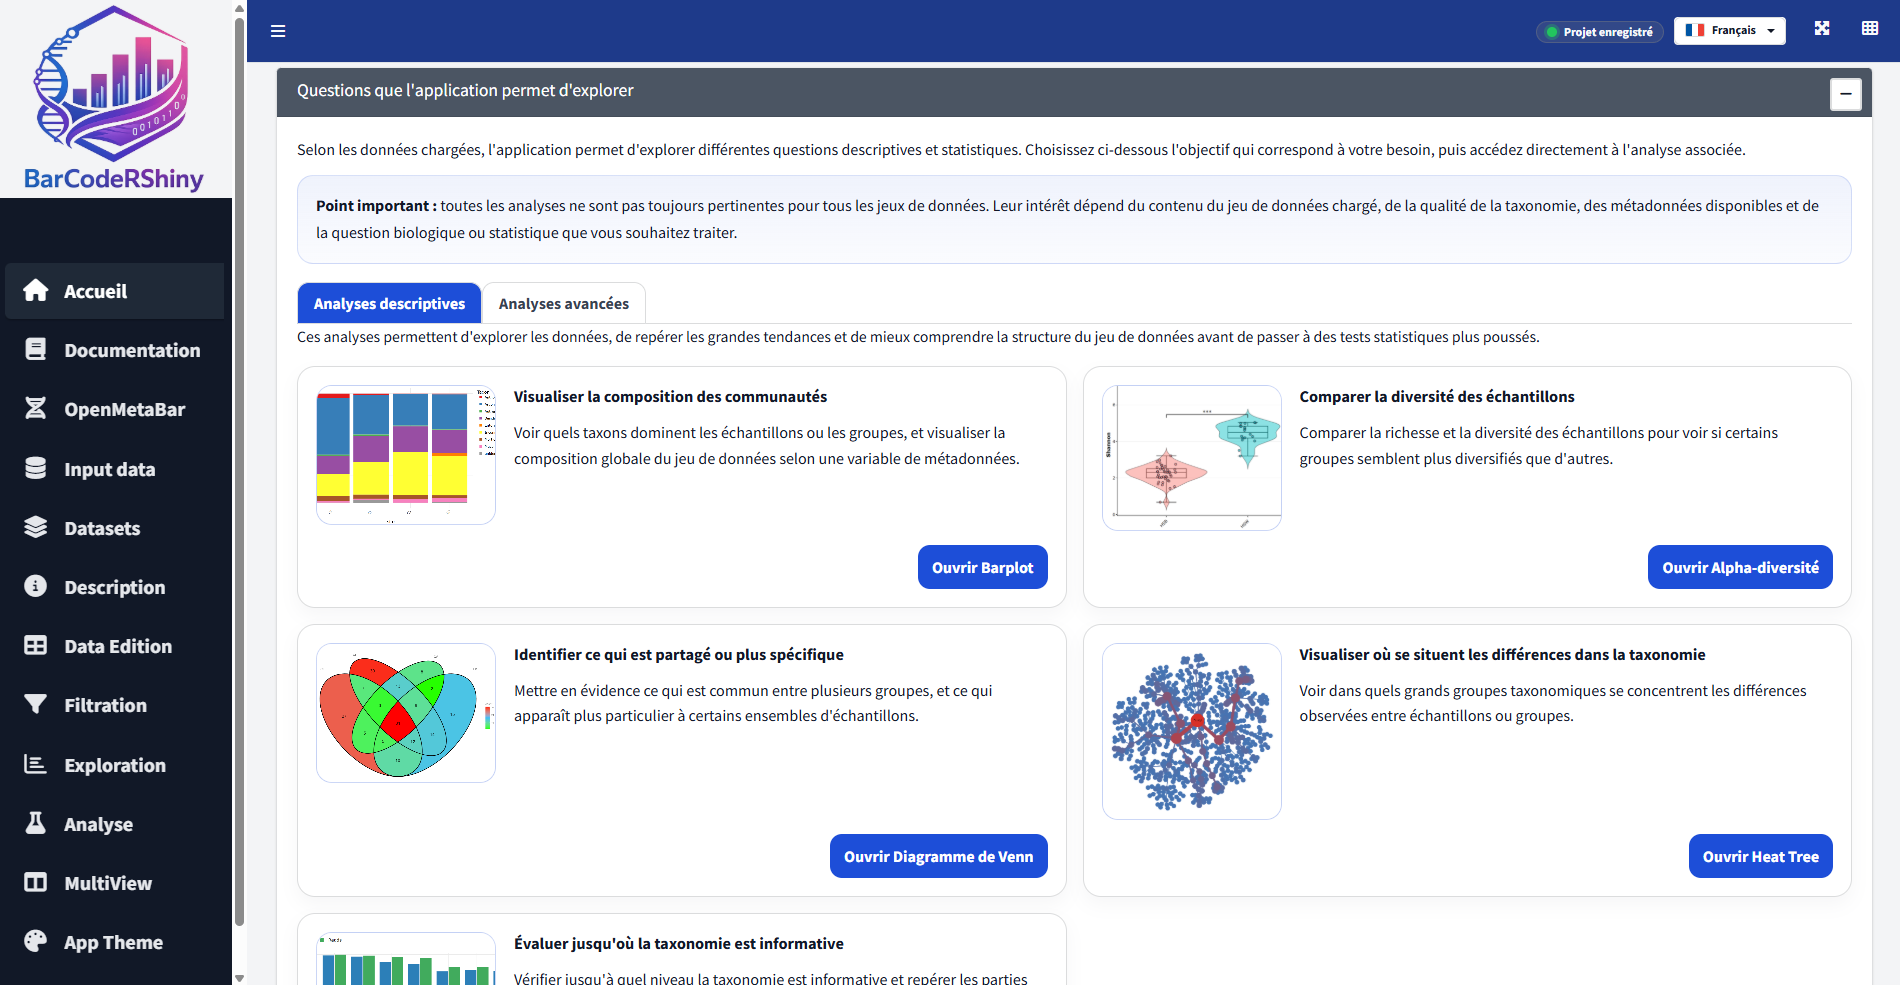
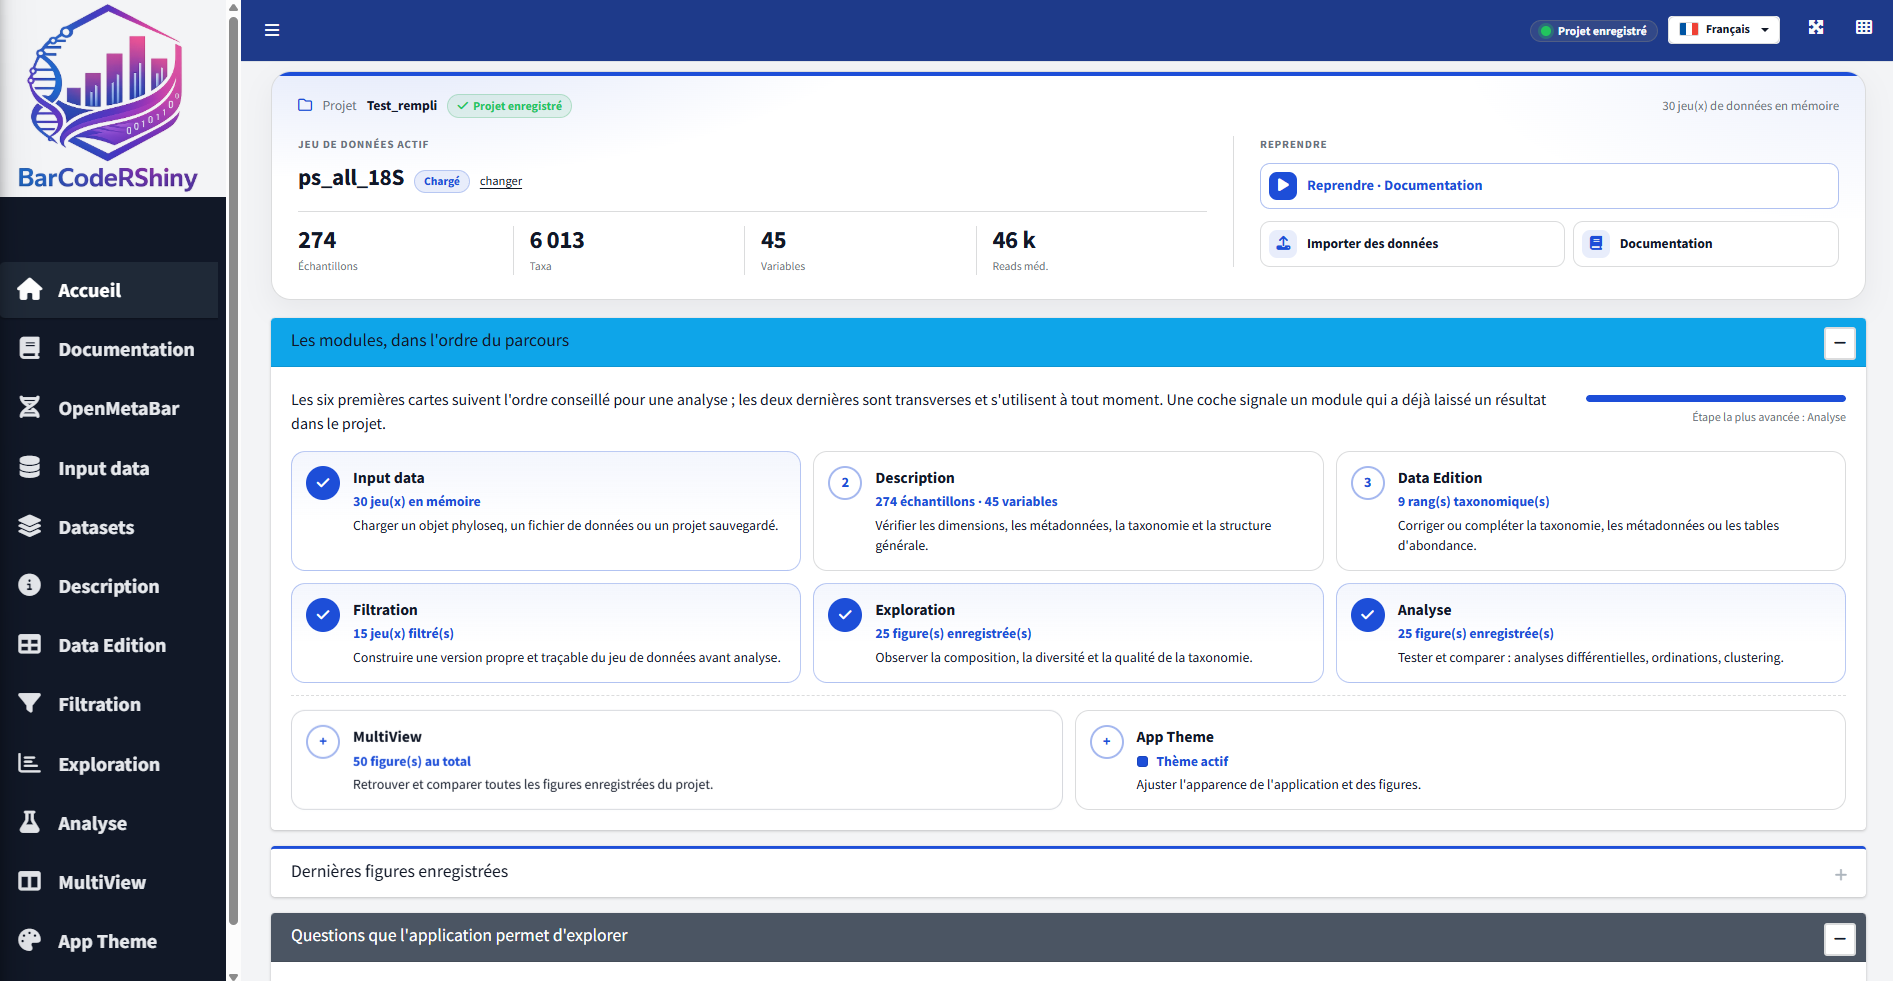
Add module interface screenshots

diff --git a/src/content.ts b/src/content.ts
@@ -28,6 +28,12 @@ export type AppModule = {
   submodules?: SubModule[];
 };
 
+export type ModuleScreen = {
+  image: string;
+  title: Localized;
+  description: Localized;
+};
+
 export const modules: AppModule[] = [
   {
     key: "accueil", order: "01", group: "orient", icon: "⌂",
@@ -215,6 +221,105 @@ export const modules: AppModule[] = [
     source: "modules/settings/mod_settings_ui.R"
   }
 ];
+
+export const moduleScreens: Record<string, ModuleScreen> = {
+  accueil: {
+    image: "barcoder-home-real.png",
+    title: l("Reprendre le projet en un regard", "Resume the project at a glance"),
+    description: l(
+      "Le tableau de bord rassemble l’état de sauvegarde, le dataset actif et ses indicateurs clés, puis matérialise la progression dans le parcours analytique pour orienter immédiatement la prochaine action.",
+      "The dashboard combines save status, the active dataset and its key indicators, then shows progress through the analytical workflow to make the next action immediately clear."
+    )
+  },
+  documentation: {
+    image: "screen-documentation.png",
+    title: l("Une documentation située dans l’interface", "Documentation embedded in the interface"),
+    description: l(
+      "L’écran organise l’aide par onglet et sous-module, ici le Barplot d’Exploration, avec deux niveaux complémentaires : un guide méthodologique pour comprendre la logique et une référence pour retrouver chaque règle.",
+      "The screen organizes help by tab and submodule, here the Exploration Barplot, with two complementary levels: a methodological guide for understanding the logic and a reference for looking up every rule."
+    )
+  },
+  openmetabar: {
+    image: "screen-openmetabar.png",
+    title: l("Préparer un run avant sa soumission", "Prepare a run before submission"),
+    description: l(
+      "Cette première étape verrouille le contexte technique — technologie, marqueur, base de référence et connexion au cluster — avant d’autoriser le choix des FASTQ et la configuration détaillée du pipeline.",
+      "This first step locks down the technical context—technology, marker, reference database and cluster connection—before enabling FASTQ selection and detailed pipeline configuration."
+    )
+  },
+  "input-data": {
+    image: "screen-input-data.png",
+    title: l("Importer un objet existant", "Import an existing object"),
+    description: l(
+      "L’onglet reçoit un objet phyloseq ou un projet sauvegardé aux formats R, détecte automatiquement son type et annonce les normalisations appliquées aux identifiants et aux métadonnées.",
+      "The tab accepts a phyloseq object or saved project in R formats, automatically detects its type and reports the normalizations applied to identifiers and metadata."
+    )
+  },
+  datasets: {
+    image: "screen-datasets.png",
+    title: l("Piloter le dataset actif et les projets", "Manage the active dataset and projects"),
+    description: l(
+      "La partie haute définit le dataset de travail global ; le registre inférieur sert à sauvegarder, recharger, dupliquer, importer ou exporter des projets et leurs jeux de données.",
+      "The upper area defines the application-wide working dataset; the registry below is used to save, reload, duplicate, import or export projects and their datasets."
+    )
+  },
+  description: {
+    image: "screen-description.png",
+    title: l("Diagnostiquer la structure du dataset", "Diagnose dataset structure"),
+    description: l(
+      "Cette vue synthétise immédiatement richesse, nombre d’échantillons, profondeur médiane et sparsité, tout en indiquant les composantes disponibles et les points d’attention avant exploration ou test.",
+      "This view immediately summarizes richness, sample count, median depth and sparsity, while indicating available components and points to review before exploration or testing."
+    )
+  },
+  "data-edition": {
+    image: "screen-data-edition.png",
+    title: l("Organiser les corrections par composante", "Organize corrections by component"),
+    description: l(
+      "Après le choix du dataset, des panneaux séparés donnent accès aux métadonnées, à l’OTU table, à la taxonomie, aux imports et exports, aux journaux et à l’enregistrement du nouvel état.",
+      "After choosing the dataset, separate panels provide access to metadata, the OTU table, taxonomy, imports and exports, logs and saving the new state."
+    )
+  },
+  exploration: {
+    image: "screen-exploration.png",
+    title: l("Construire un Barplot de façon explicite", "Build a Barplot explicitly"),
+    description: l(
+      "Le sous-module sépare le contexte du dataset des paramètres qui déclenchent un recalcul : sélection taxonomique, définition des inconnus et regroupement restent visibles avant la génération de la figure.",
+      "The submodule separates dataset context from parameters that trigger recalculation: taxonomic selection, unknown-value definition and grouping remain visible before the figure is generated."
+    )
+  },
+  analyse: {
+    image: "screen-analyse.png",
+    title: l("Paramétrer une analyse différentielle", "Configure a differential analysis"),
+    description: l(
+      "L’écran réunit le choix des datasets, des moteurs statistiques, du modèle, des corrections multiples, des effets aléatoires et de la graine afin de rendre l’exécution relisible et reproductible.",
+      "The screen brings together dataset selection, statistical engines, model settings, multiple-testing corrections, random effects and the seed so execution remains reviewable and reproducible."
+    )
+  },
+  multiview: {
+    image: "screen-multiview.png",
+    title: l("Retrouver et comparer les figures enregistrées", "Retrieve and compare saved figures"),
+    description: l(
+      "La bibliothèque combine indicateurs, recherche, période, tri, favoris et filtres par type avec une galerie de résultats, afin de sélectionner plusieurs figures sans perdre leur dataset ni leur contexte analytique.",
+      "The library combines indicators, search, date range, sorting, favorites and type filters with a results gallery, allowing several figures to be selected without losing their dataset or analytical context."
+    )
+  },
+  "app-theme": {
+    image: "screen-app-theme.png",
+    title: l("Choisir un thème en contrôlant sa lisibilité", "Choose a theme while checking readability"),
+    description: l(
+      "Les presets sont classés par familles chromatiques et accompagnés d’un aperçu des composants ; le panneau de lisibilité vérifie en parallèle les contrastes WCAG des principaux couples texte-fond.",
+      "Presets are grouped into color families and paired with a component preview; the readability panel simultaneously checks WCAG contrast for the main text-background pairs."
+    )
+  },
+  parametres: {
+    image: "screen-parametres.png",
+    title: l("Rendre le comportement de session prévisible", "Make session behavior predictable"),
+    description: l(
+      "Les préférences globales contrôlent ici la sauvegarde automatique, la reprise du dernier onglet et les choix appliqués au démarrage, notamment la langue et le thème de l’interface.",
+      "Global preferences control automatic saving, restoration of the last tab and the choices applied at startup, including interface language and theme."
+    )
+  }
+};
 
 export const groups = {
   orient: l("S’orienter", "Orient"),

diff --git a/src/App.tsx b/src/App.tsx
@@ -1,5 +1,5 @@
 import { useEffect, useMemo, useState } from "react";
-import { groups, modules, type AppModule, type Language, type Localized } from "./content";
+import { groups, moduleScreens, modules, type AppModule, type Language, type Localized } from "./content";
 
 const asset = (path: string) => `${import.meta.env.BASE_URL}${path}`;
 const tx = (value: Localized, language: Language) => value[language];
@@ -183,6 +183,11 @@ function ApplicationIndex({ language }: { language: Language }) {
 }
 
 function ModuleVisual({ module, language }: { module: AppModule; language: Language }) {
+  const screen = moduleScreens[module.key];
+  if (screen) {
+    const imagePath = asset(`app-previews/${screen.image}`);
+    return <figure className="module-visual screen-preview"><a href={imagePath} target="_blank" rel="noreferrer"><img src={imagePath} alt={`${tx(screen.title, language)} — ${tx(screen.description, language)}`} decoding="async" /><span>{language === "fr" ? "Voir en pleine résolution" : "View full resolution"}<i>↗</i></span></a><figcaption><small>{language === "fr" ? "CAPTURE DE L’APPLICATION" : "APPLICATION SCREEN"}</small><b>{tx(screen.title, language)}</b><p>{tx(screen.description, language)}</p></figcaption></figure>;
+  }
   if (module.image) return <div className="module-visual image"><img src={asset(`app-previews/${module.image}`)} alt={`${tx(module.title, language)} — ${tx(module.kicker, language)}`} /><div><span>{language === "fr" ? "APERÇU ISSU DU DÉPÔT" : "PREVIEW FROM THE REPOSITORY"}</span><b>{tx(module.title, language)}</b></div></div>;
   return <div className={`module-visual schematic theme-${module.group}`} role="img" aria-label={language === "fr" ? `Schéma fonctionnel de l’onglet ${tx(module.title, language)}` : `Functional diagram of the ${tx(module.title, language)} tab`}><div className="schematic-bar"><span /><span /><span /><b>BarCodeR / {tx(module.title, language)}</b></div><div className="schematic-body"><aside><strong>{module.icon}</strong>{modules.slice(0, 8).map((m) => <i className={m.key === module.key ? "active" : ""} key={m.key} />)}</aside><div className="schematic-content"><small>{tx(module.kicker, language)}</small><h3>{tx(module.title, language)}</h3><div className="schematic-cards"><span /><span /><span /></div><div className="schematic-lines"><i /><i /><i /><i /></div></div></div></div>;
 }

diff --git a/src/styles.css b/src/styles.css
@@ -225,6 +225,17 @@ h1 em { color: var(--violet); font-style: normal; }
 .question-callout b { display: block; font-family: var(--font-display); font-size: 15px; line-height: 1.45; margin-top: 3px; }
 
 .module-visual { border: 1px solid var(--line); border-radius: 15px; box-shadow: var(--shadow); min-height: 390px; overflow: hidden; }
+.screen-preview { background: var(--surface); display: flex; flex-direction: column; min-height: 0; }
+.screen-preview > a { background: #e9edf4; display: block; overflow: hidden; position: relative; }
+.screen-preview > a::after { background: linear-gradient(180deg, transparent 65%, rgba(17,24,45,.2)); content: ""; inset: 0; pointer-events: none; position: absolute; }
+.screen-preview img { aspect-ratio: 1.93 / 1; object-fit: contain; object-position: top; transition: transform .35s ease; width: 100%; }
+.screen-preview > a:hover img { transform: scale(1.012); }
+.screen-preview > a > span { align-items: center; background: rgba(17,24,45,.9); border: 1px solid rgba(255,255,255,.2); border-radius: 999px; bottom: 13px; color: white; display: flex; font-family: var(--font-display); font-size: 11px; font-weight: 700; gap: 9px; padding: 7px 11px; position: absolute; right: 13px; z-index: 1; }
+.screen-preview > a > span i { color: #b8aff4; font-style: normal; }
+.screen-preview figcaption { border-top: 1px solid var(--line); padding: 18px 20px 20px; }
+.screen-preview figcaption small { color: var(--violet-dark); display: block; font-family: var(--font-mono); font-size: 10px; font-weight: 600; letter-spacing: .07em; }
+.screen-preview figcaption b { display: block; font-family: var(--font-display); font-size: 18px; line-height: 1.3; margin-top: 5px; }
+.screen-preview figcaption p { color: var(--muted); font-size: 14px; line-height: 1.5; margin-top: 8px; }
 .module-visual.image { background: #eef0f6; position: relative; }
 .module-visual.image img { height: 390px; object-fit: cover; object-position: top; transition: transform .35s ease; width: 100%; }
 .module-visual.image:hover img { transform: scale(1.018); }
